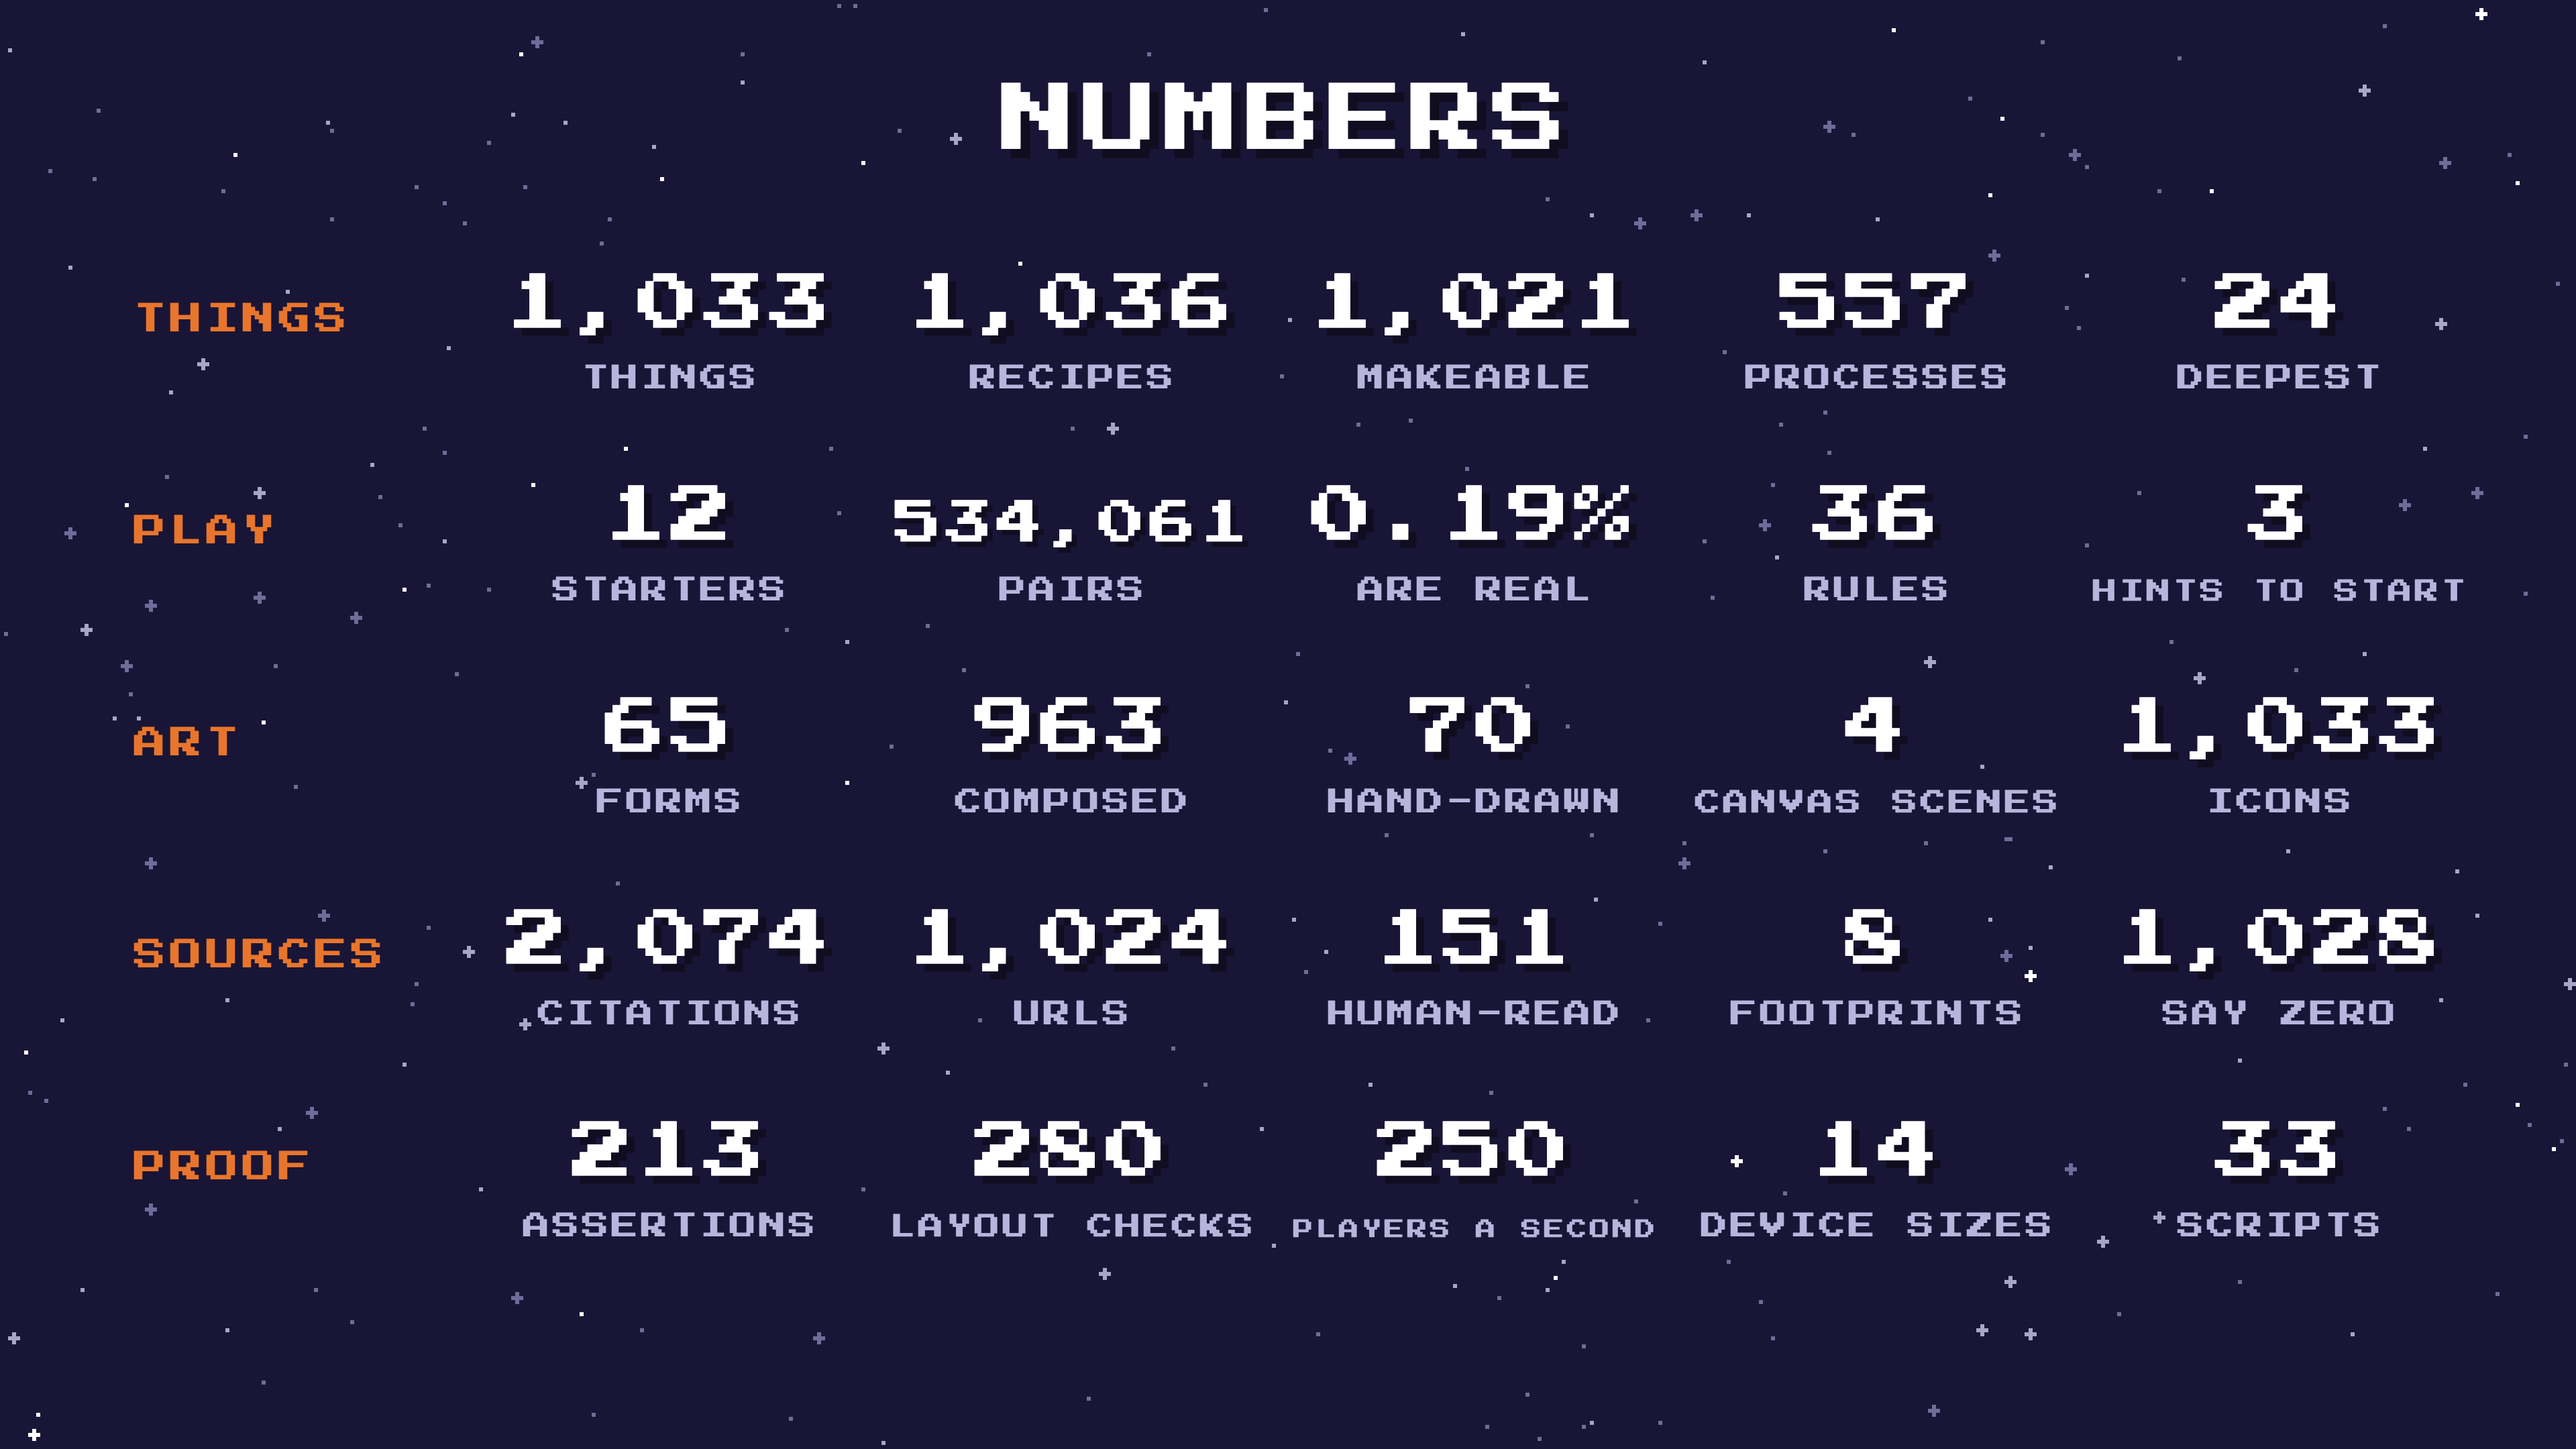
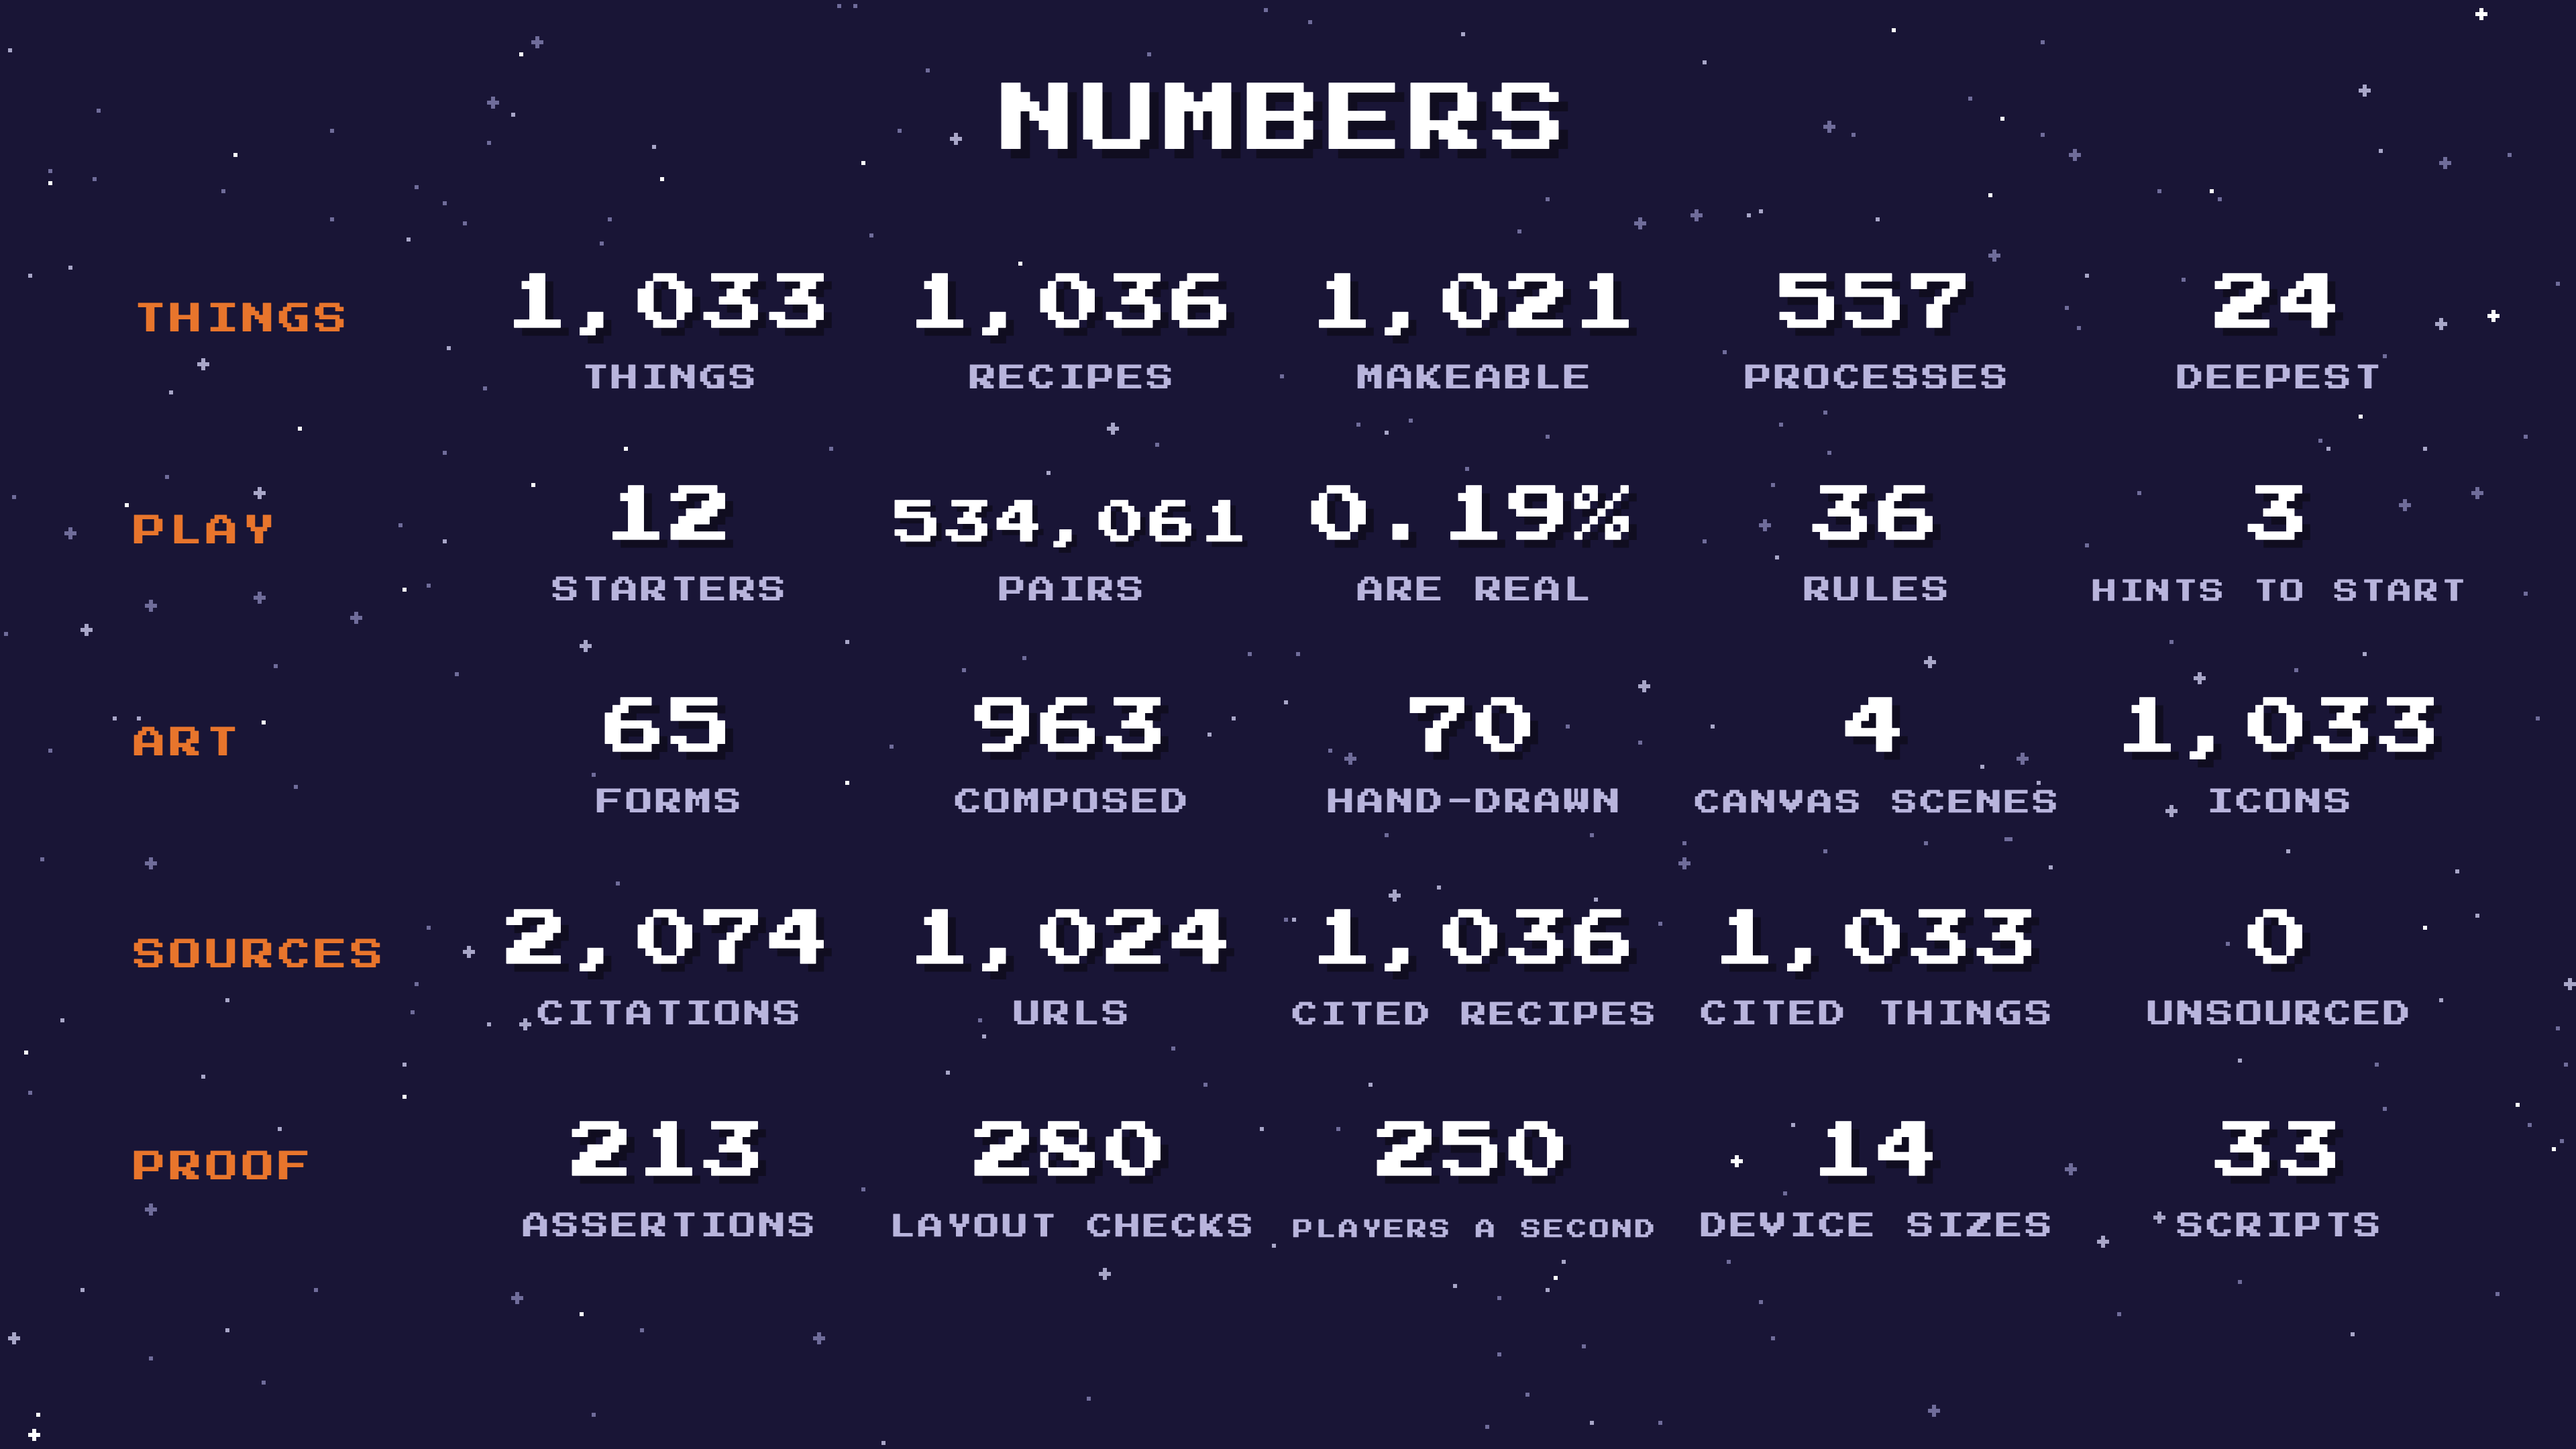
Reframe the sourcing slides; state the link check as a property

Changed region(s): [[0.5, 0.6204, 0.9375, 0.7134]]

diff --git a/scripts/diagram.ts b/scripts/diagram.ts
@@ -769,40 +769,41 @@ const gate = slide(
       ],
       ['', '', ''],
     ),
-  `${n(FACTS.urls)} of ${n(FACTS.urls)} citations answer and match their page title.`,
+  'every citation is fetched and title-matched on every build.',
   21,
 )
 
+/*
+ * THE RESPONSIBLE-AI SLIDE, REFRAMED.
+ *
+ * It was titled "WHAT WE DO NOT CLAIM" and led with 151 against 1,923, which
+ * reads as a confession before anyone has accused you of anything. The facts
+ * are unchanged and none of them is hidden — the tier is a field in the shipped
+ * data and anyone who opens `types.ts` can see it — but the order now puts the
+ * guarantee first and makes the hand-reading additive rather than a shortfall.
+ * "Also" is doing real work in that label.
+ */
 const honesty = slide(
-  'WHAT WE DO NOT CLAIM',
+  'EVERY CLAIM HAS A SOURCE',
   () =>
     figures(
       [
-        [n(FACTS.sourced), 'READ BY A HUMAN'],
-        [n(FACTS.referenced), 'MACHINE-CHECKED'],
+        [n(FACTS.sourced + FACTS.referenced), 'CITATIONS'],
+        ['0', 'UNSOURCED RECIPES'],
       ],
       430,
     ) +
     figures(
       [
-        [n(FACTS.costed), 'CARRY A FOOTPRINT'],
-        [n(FACTS.zeroCost), 'SAY ZERO'],
+        [n(FACTS.urls), 'URLS FETCHED ON EVERY BUILD'],
+        [n(FACTS.sourced), 'ALSO READ BY A HUMAN'],
       ],
       780,
     ),
-  'a footprint number may only come from a page a human opened.',
+  'a footprint number only appears when a person read the page. the rest say zero rather than guess.',
   61,
 )
 
-/*
- * MEASURED, NOT REMEMBERED.
- *
- * 213 is the sum of the "N passed" lines from a real `npm test` run on
- * 2026-09-13; 280 is devicetest's 14 devices x 5 screens x 4 assertions, which
- * is a SEPARATE command and does not run on `npm test` — the old footer here
- * said "14 scripts, the build fails if any of them does", and the fourteenth
- * is the one the build never runs.
- */
 const checks = slide(
   'WHAT IS CHECKED',
   () =>
@@ -1318,11 +1319,23 @@ const tally = slide(
       [
         'SOURCES',
         [
+          /*
+           * THE TIER SPLIT DOES NOT BELONG ON A STAT BOARD.
+           *
+           * Leo: *"why do you have human read."* He is right about the framing
+           * even though the number is fine. On a dense grid "151 HUMAN-READ"
+           * next to "2,074 CITATIONS" invites one reading — that 93% went
+           * unchecked — and the opposite is true: the other 1,923 are fetched
+           * and title-matched on every build, which is a different check, not
+           * an absent one. The nuance needs a sentence, so it lives on
+           * `honesty` where there is room for one, and this row carries
+           * coverage instead.
+           */
           [n(FACTS.sourced + FACTS.referenced), 'CITATIONS'],
           [n(FACTS.urls), 'URLS'],
-          [n(FACTS.sourced), 'HUMAN-READ'],
-          [String(FACTS.costed), 'FOOTPRINTS'],
-          [n(FACTS.zeroCost), 'SAY ZERO'],
+          [n(FACTS.recipes), 'CITED RECIPES'],
+          [n(FACTS.things), 'CITED THINGS'],
+          ['0', 'UNSOURCED'],
         ],
       ],
       [

diff --git a/PROGRESS.md b/PROGRESS.md
@@ -1141,3 +1141,32 @@ real `npm test` run, 280 is devicetest's 14 x 5 x 4, 250 is the k6 arrival rate,
 14 is the device list. The script count is now `readdirSync('scripts').length`
 so at least that one cannot drift, and the footer says what is true: the first
 four rows are read from the game at build time, the last is measured.
+
+## The sourcing slides, reframed
+
+Leo: *"why do you have human read. why are you outing the fact its vibe coded.
+thats bad"*.
+
+He is right about the framing and the numbers did not need to change. On a dense
+stat board, "151 HUMAN-READ" beside "2,074 CITATIONS" invites exactly one
+reading — that 93% went unchecked — when the truth is that the other 1,923 are
+fetched and title-matched on every build. That is a different check, not an
+absent one. Hiding it is the worse option: `tier` is a field in the shipped
+data and in `src/data/types.ts`, so anyone who opens the repo sees it, and being
+found later is worse than saying it first.
+
+So: the tier split comes off `tally` (that row now carries coverage — 2,074
+citations, 1,024 urls, 1,036 cited recipes, 1,033 cited things, 0 unsourced),
+and `honesty` is retitled from "WHAT WE DO NOT CLAIM" to "EVERY CLAIM HAS A
+SOURCE", leading with the guarantee and labelling the 151 as "ALSO READ BY A
+HUMAN".
+
+**Verified while doing it:** every one of the 1,036 recipes and 1,033 elements
+carries at least one citation. Zero unsourced.
+
+**And a correction.** The `gate` footer read "1,024 of 1,024 citations answer and
+match their page title". A fresh `npm run links` today returned **883/1024** —
+every failure a `429 Too Many Requests` from Wikipedia, so rate limiting rather
+than dead links. The property still holds and the check still runs, but the
+tally is not reproducible on demand, so the footer now states the property
+instead: "every citation is fetched and title-matched on every build."

diff --git a/docs/SLIDES.md b/docs/SLIDES.md
@@ -57,9 +57,10 @@ is 129 things at depth 13; the deepest is 24.
 
 **`chain`** — Soil to t-shirt, four real processes, depth 14 of 24.
 
-**`honesty`** — The slide to volunteer rather than wait to be asked. 151
-citations were read by a human, 1,923 are machine-checked. Eight recipes carry a
-footprint; 1,028 say zero, because a number needs a page somebody read.
+**`honesty`** — 2,074 citations, zero unsourced recipes, and every URL fetched
+and title-matched on every build. 151 were also read by a person, which is what
+lets those eight footprint figures exist; the rest say zero rather than guess.
+Lead with the guarantee, and only give the tier split if you are asked.
 
 ## Act 4 — the art (2 slides)
 
